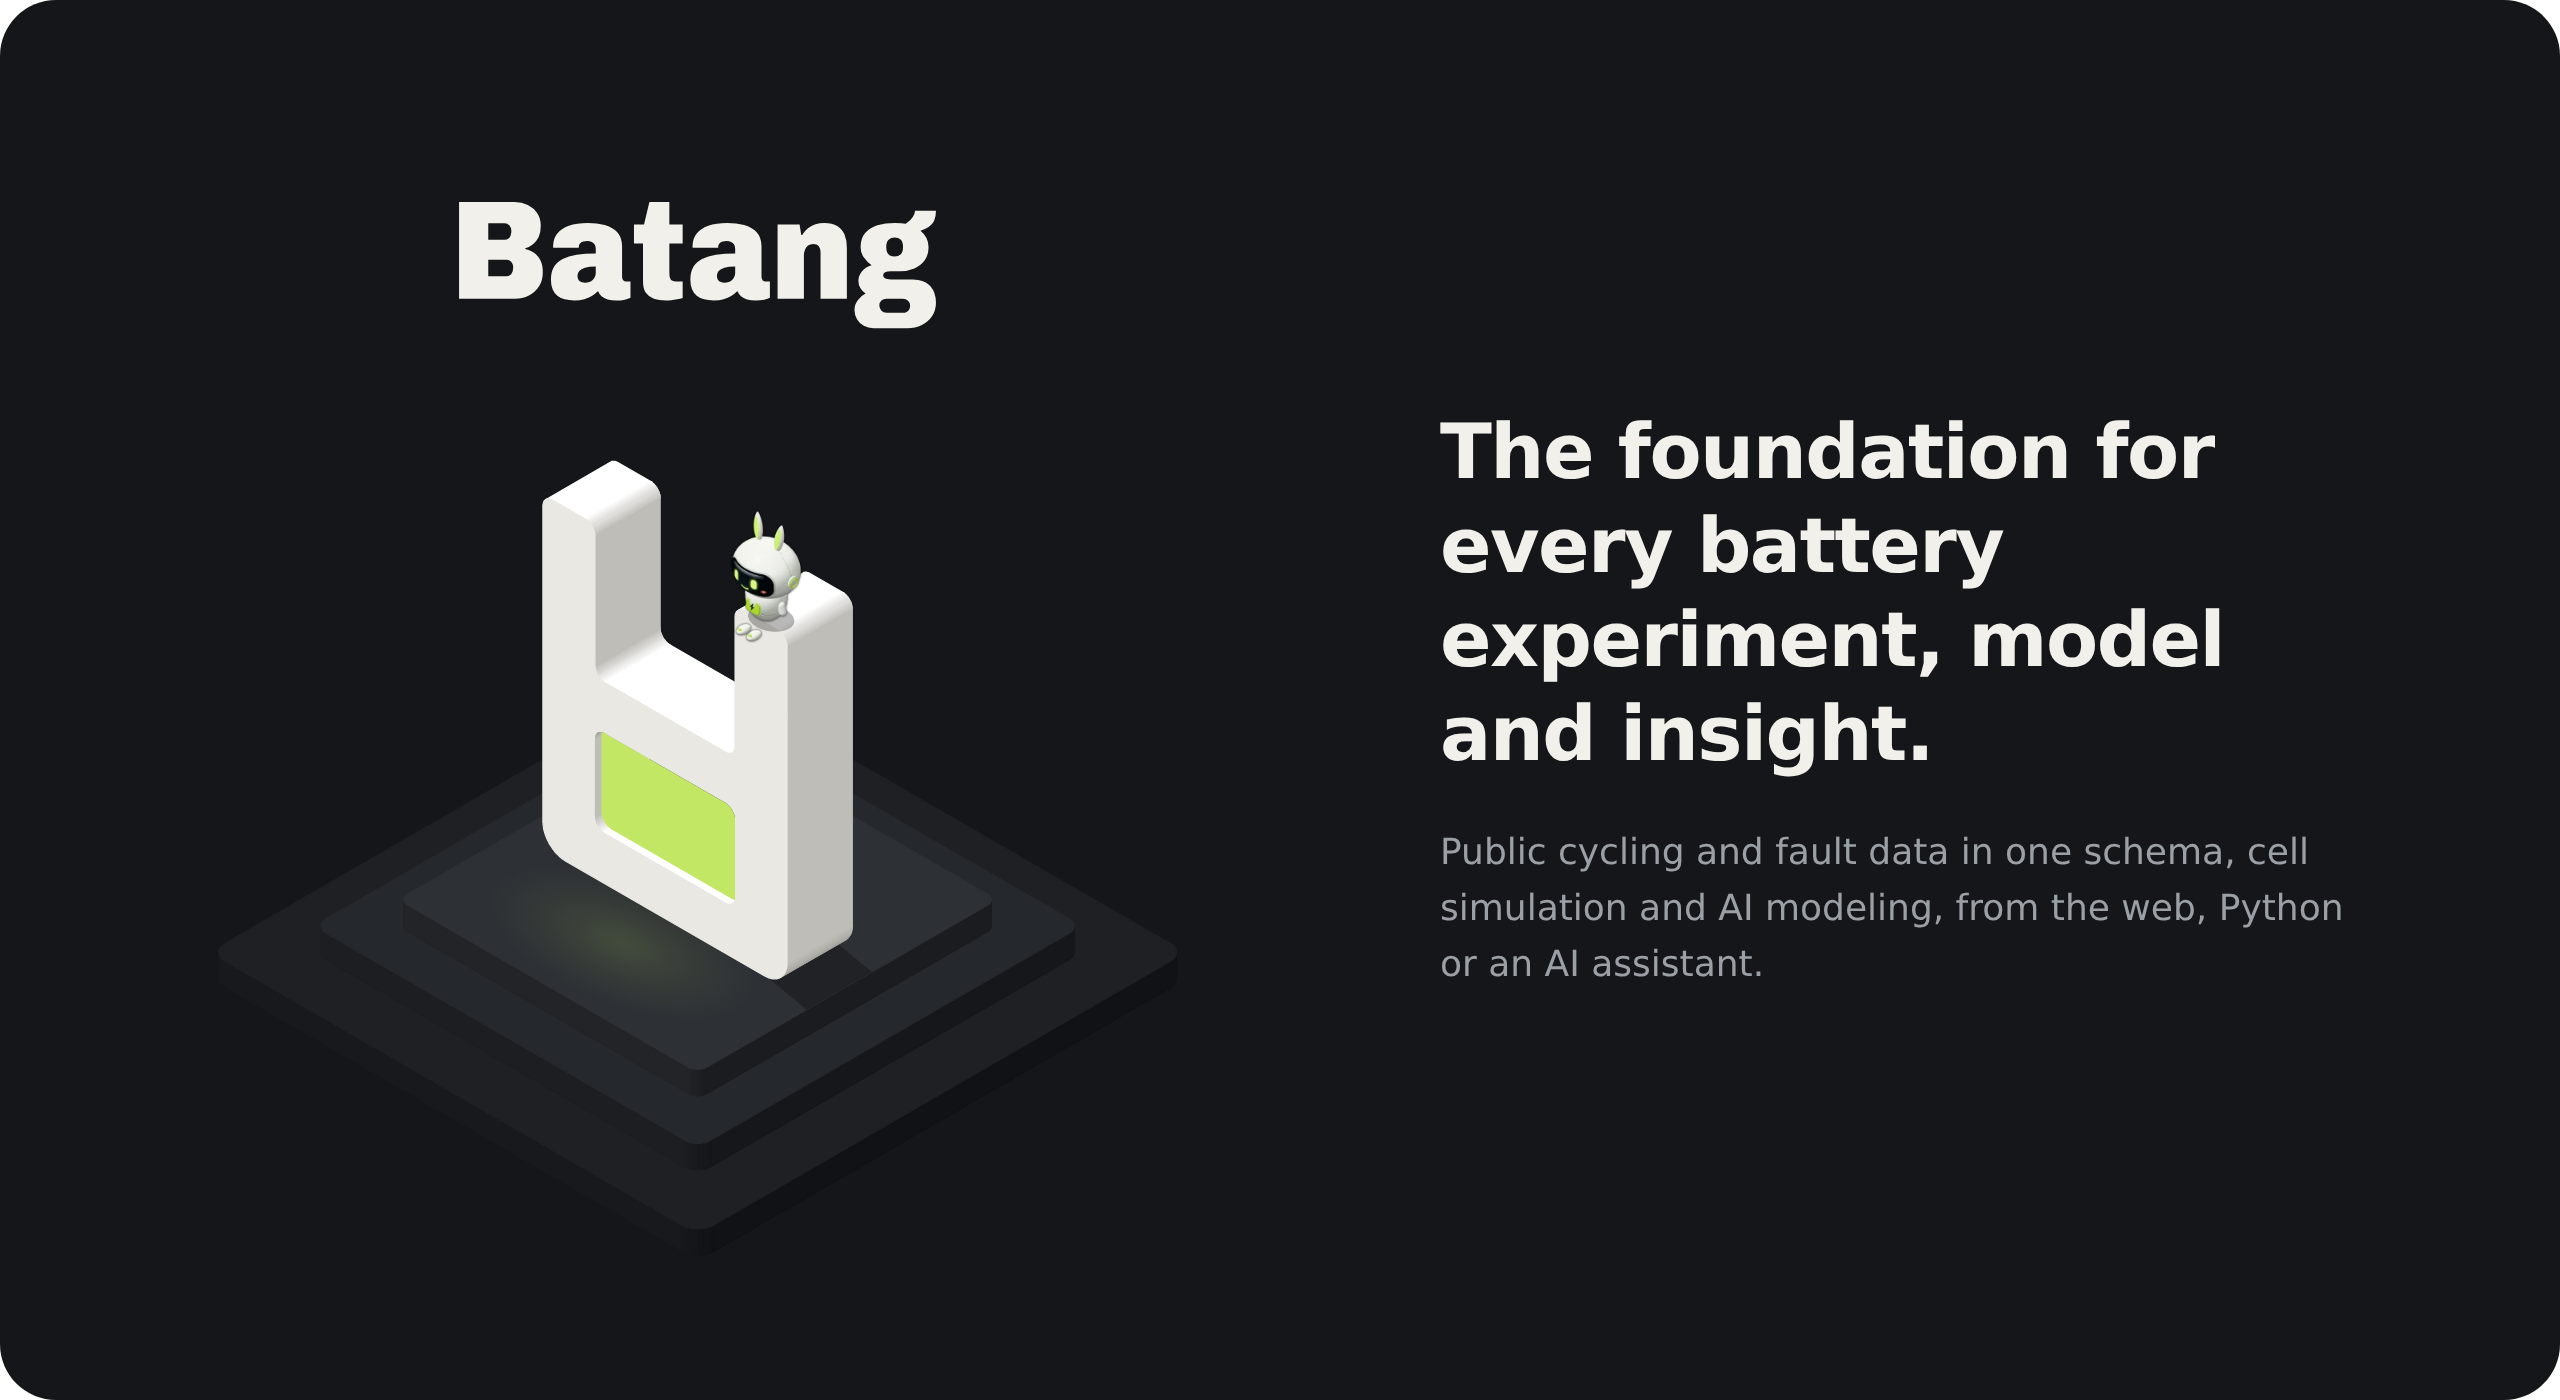
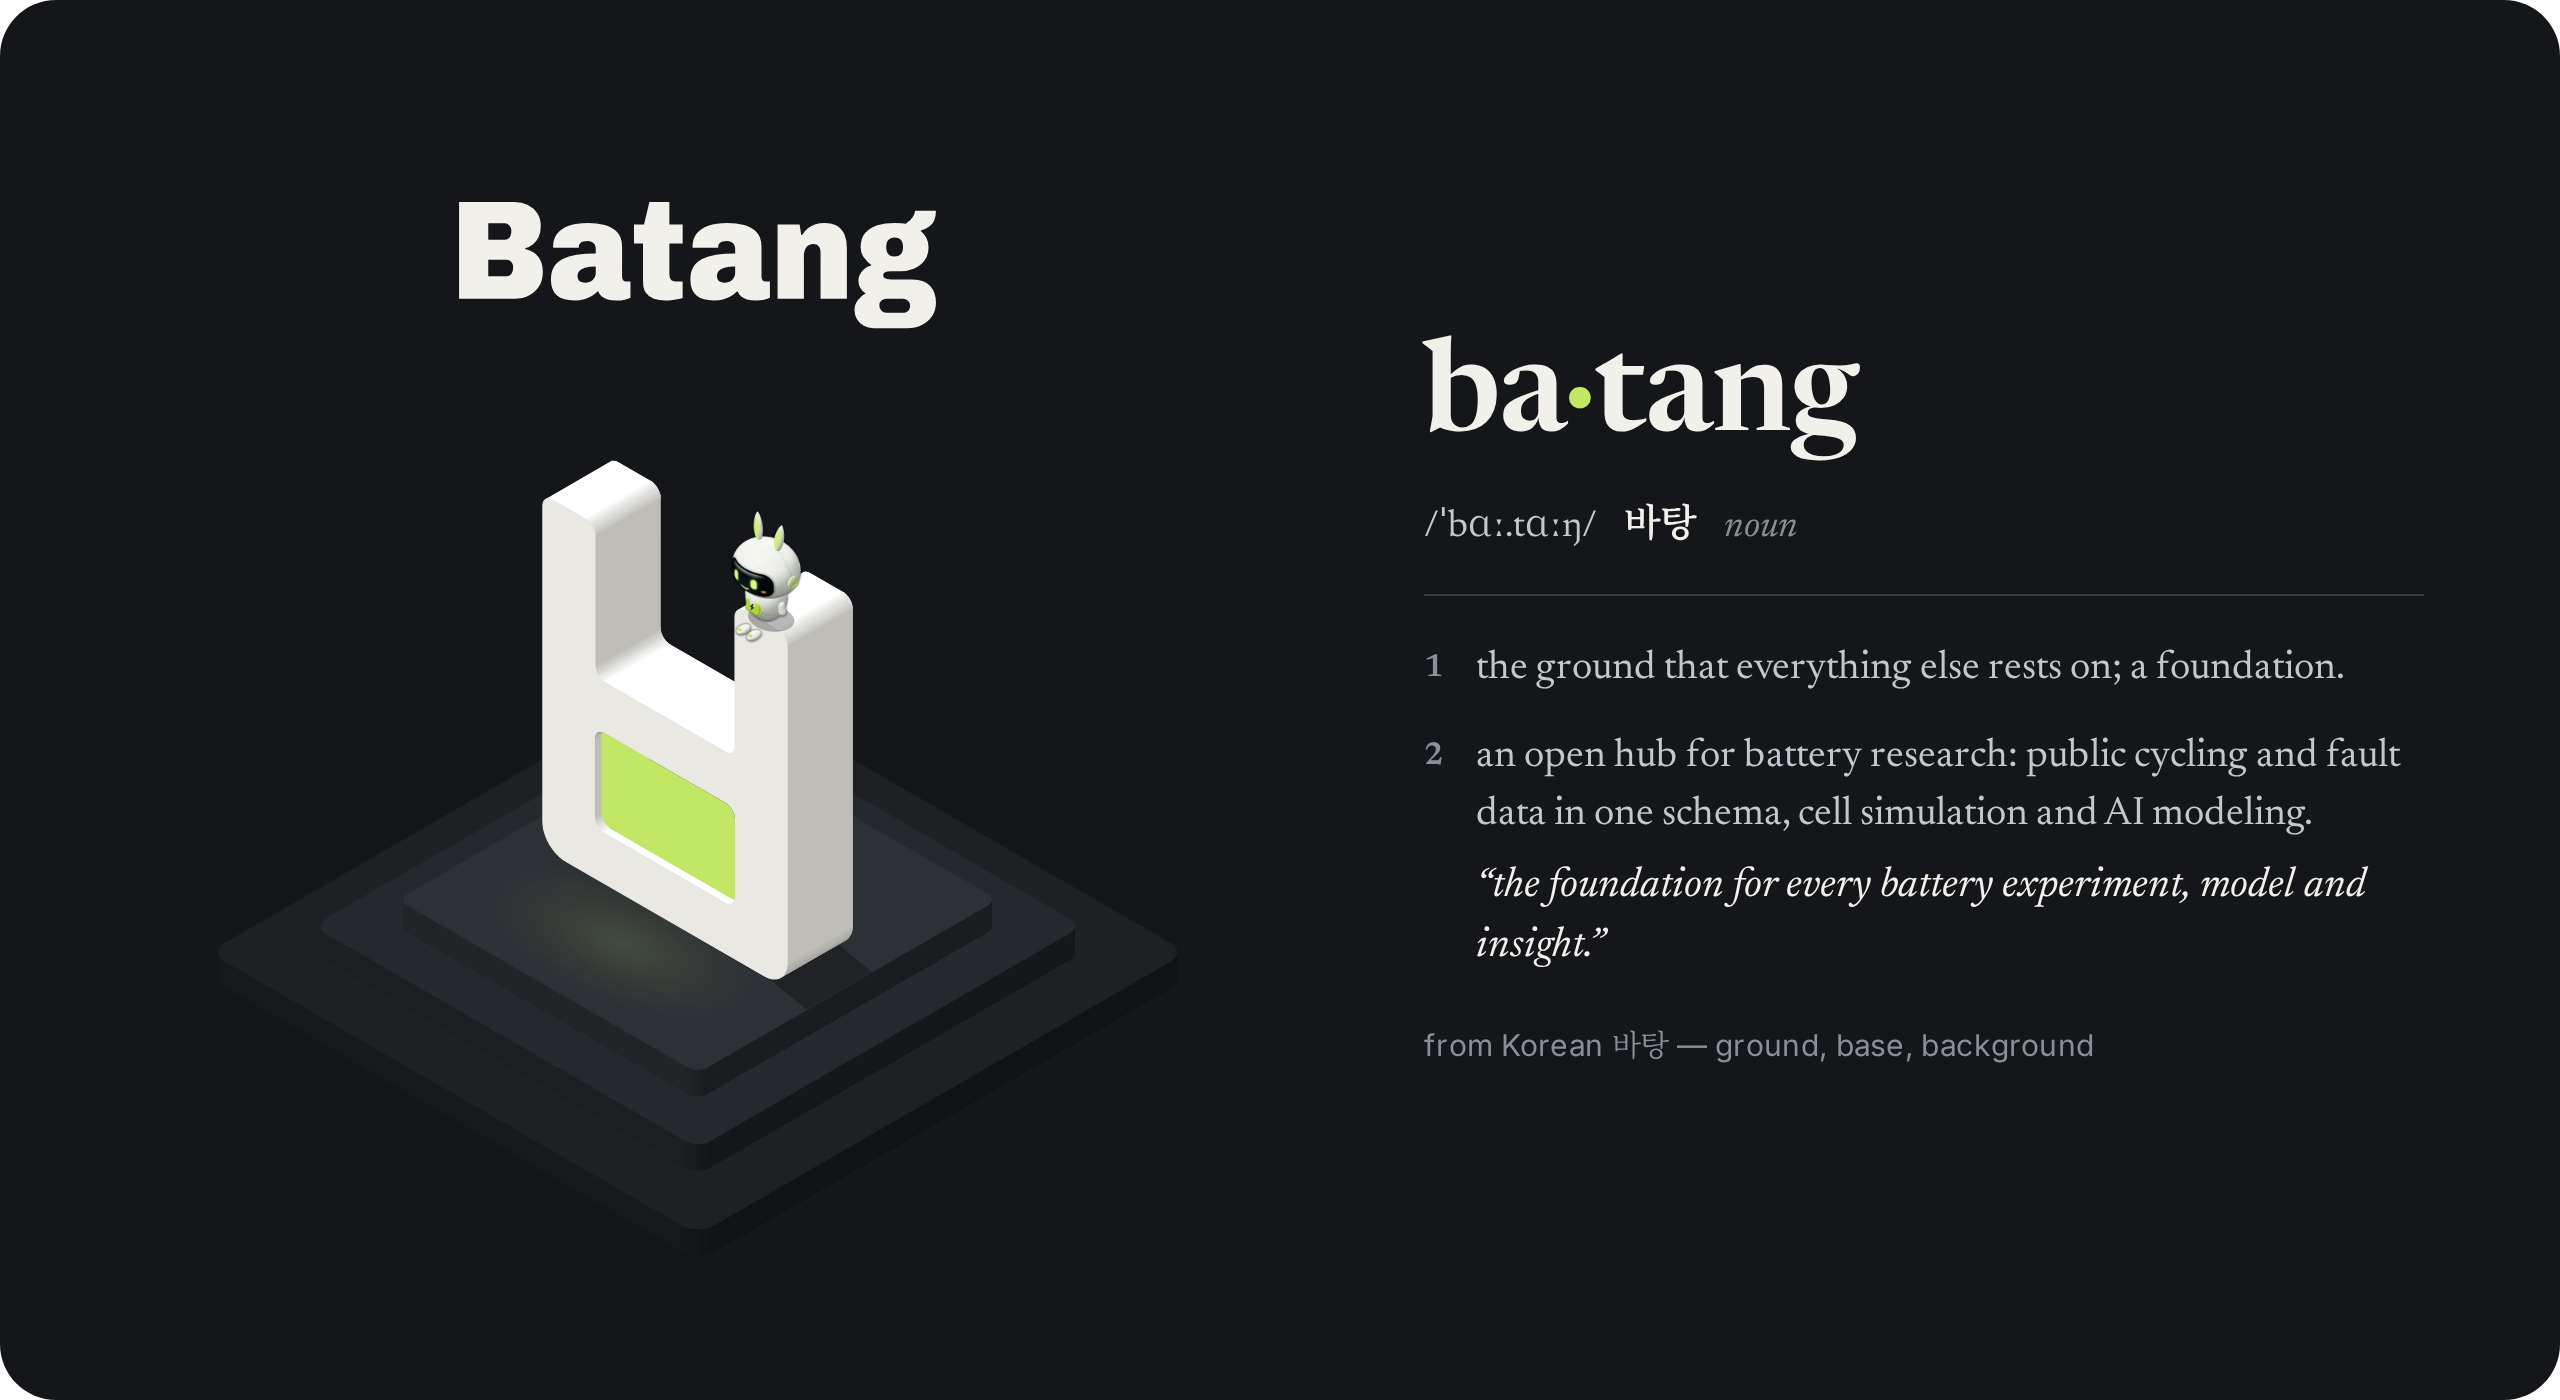
README hero: the slogan as a dictionary entry for ba·tang

Changed region(s): [[0.5312, 0.2457, 0.9375, 0.7064], [0.5625, 0.7371, 0.8125, 0.7679]]

diff --git a/README.md b/README.md
@@ -1,7 +1,7 @@
 <p align="center">
   <picture>
     <source media="(prefers-color-scheme: dark)" srcset="docs/assets/hero-dark.png">
-    <img src="docs/assets/hero-light.png" alt="Batang — the foundation for every battery experiment, model and insight. The ㅂ mark in 2.5D, with 바탕이, the research assistant, sitting on it" width="100%">
+    <img src="docs/assets/hero-light.png" alt="ba·tang (바탕), noun: 1. the ground that everything else rests on; a foundation. 2. an open hub for battery research. Beside it, the ㅂ mark in 2.5D with 바탕이, the research assistant, sitting on it" width="100%">
   </picture>
 </p>
 
